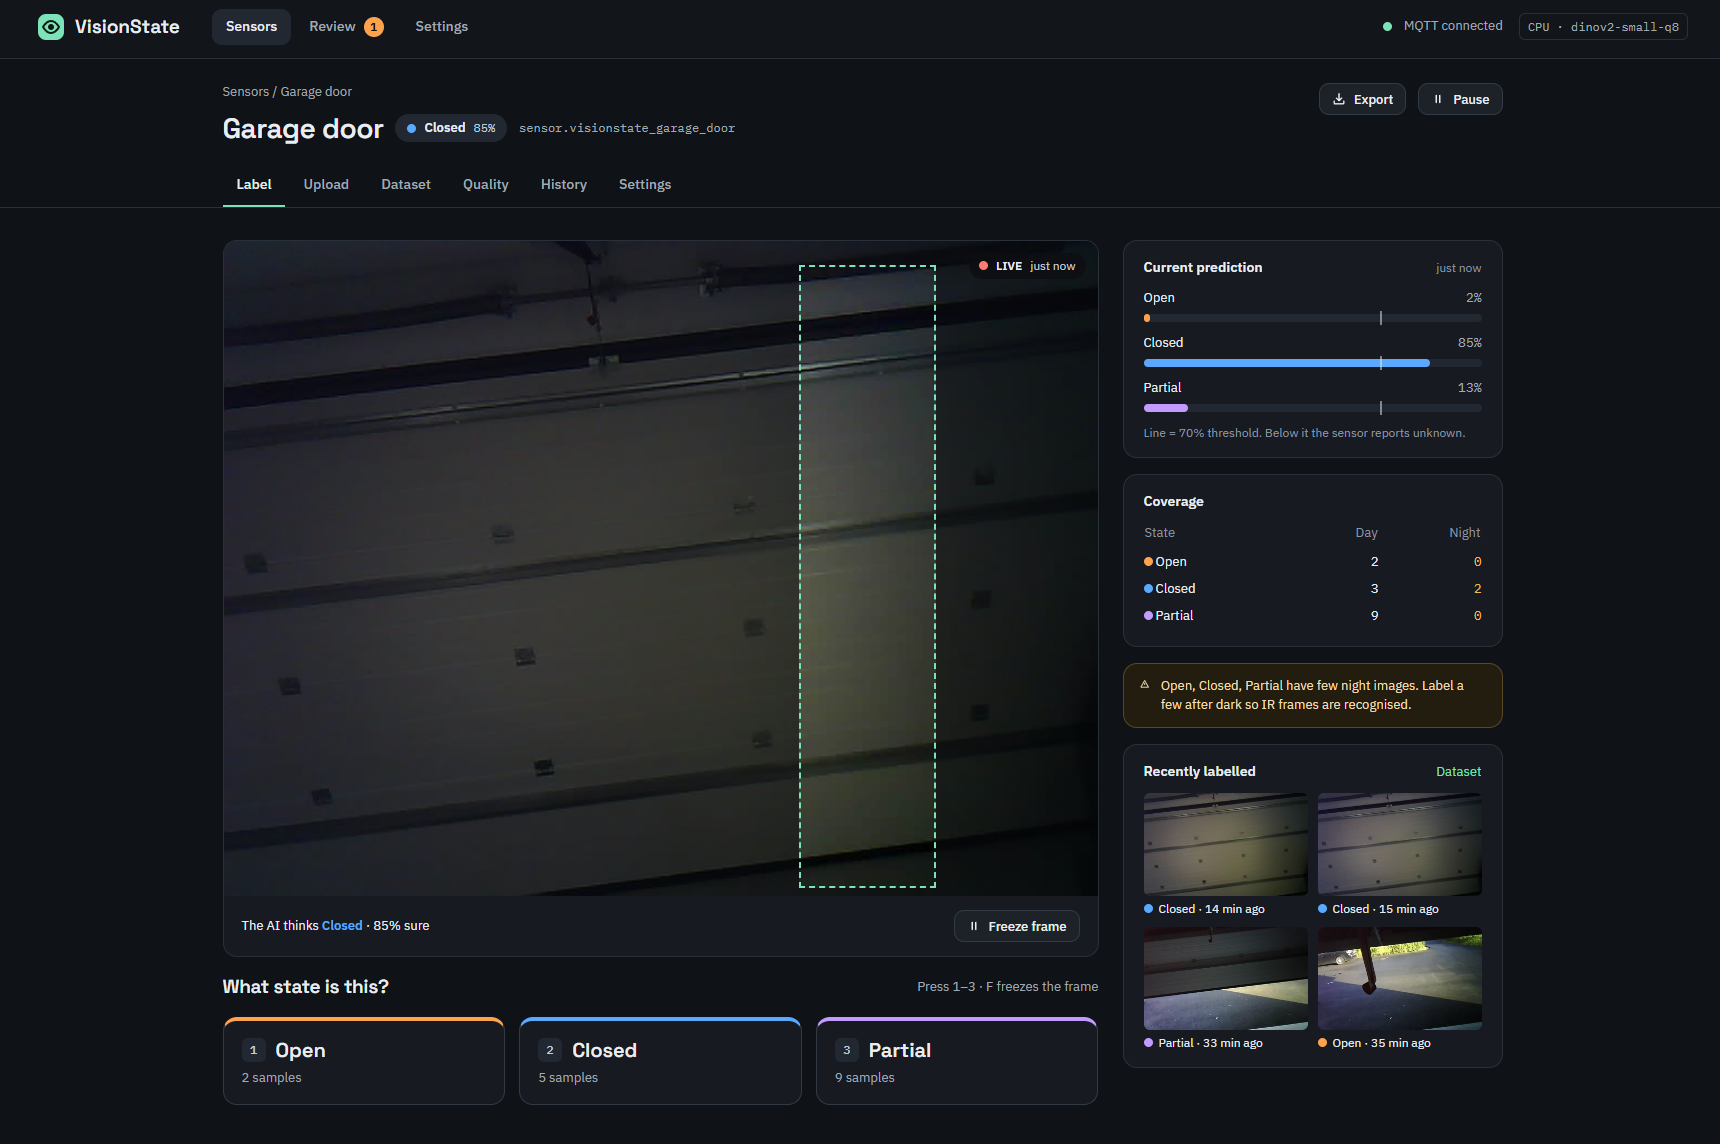
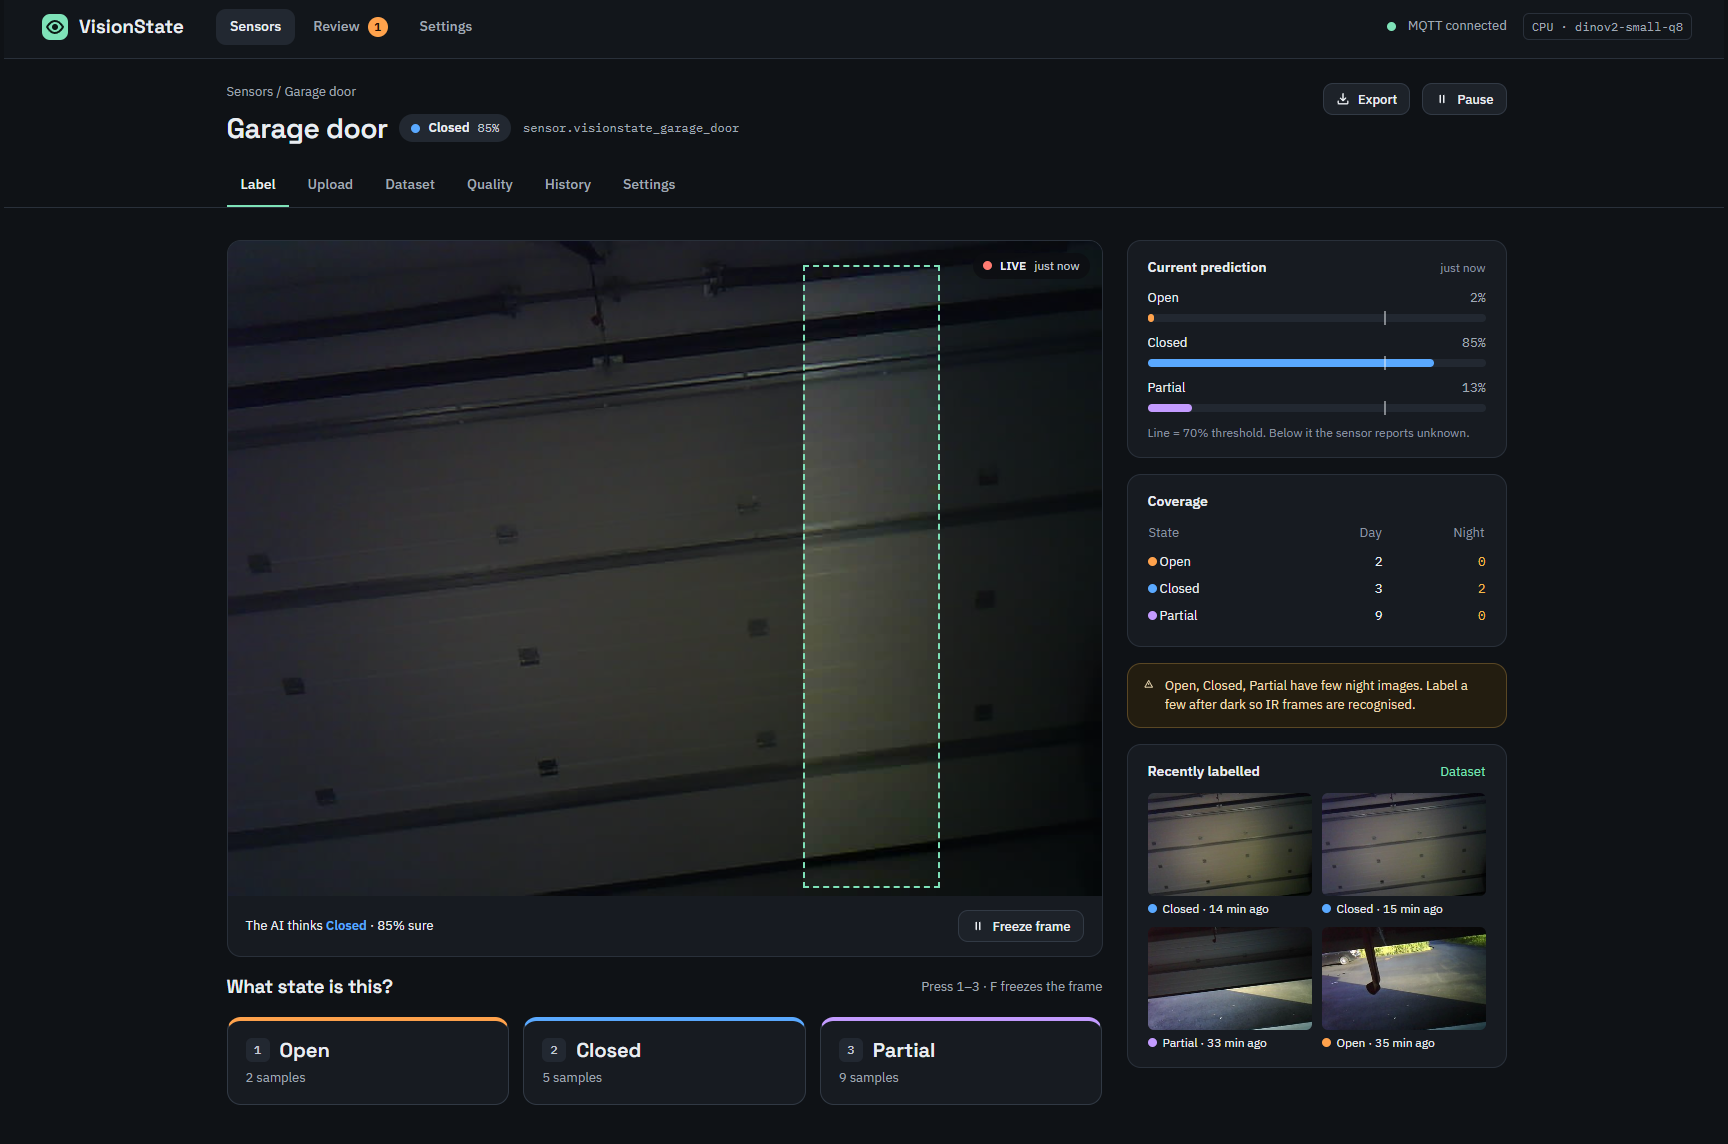
README: give the showcase screenshots identical size
Claude-Session: https://claude.ai/code/session_01TRe6P1arANjSep5Ni5Fjpj

diff --git a/README.md b/README.md
@@ -53,12 +53,12 @@ without writing code or leaving Home Assistant:
 
 <table>
   <tr>
-    <td width="50%"><img src="docs/promo/label.png" alt="Labelling live frames"></td>
-    <td width="50%"><img src="docs/promo/review.png" alt="Review queue"></td>
+    <td width="50%" valign="top"><img src="docs/promo/label.png" alt="Labelling live frames" width="100%"></td>
+    <td width="50%" valign="top"><img src="docs/promo/review.png" alt="Review queue" width="100%"></td>
   </tr>
   <tr>
-    <td><b>Label</b> — live camera image with the region you drew, the current prediction, day/night coverage and one button per state.</td>
-    <td><b>Review</b> — frames the AI was unsure about. Confirm or correct with a single key press.</td>
+    <td valign="top"><b>Label</b> — live camera image with the region you drew, the current prediction, day/night coverage and one button per state.</td>
+    <td valign="top"><b>Review</b> — frames the AI was unsure about. Confirm or correct with a single key press.</td>
   </tr>
 </table>
 
